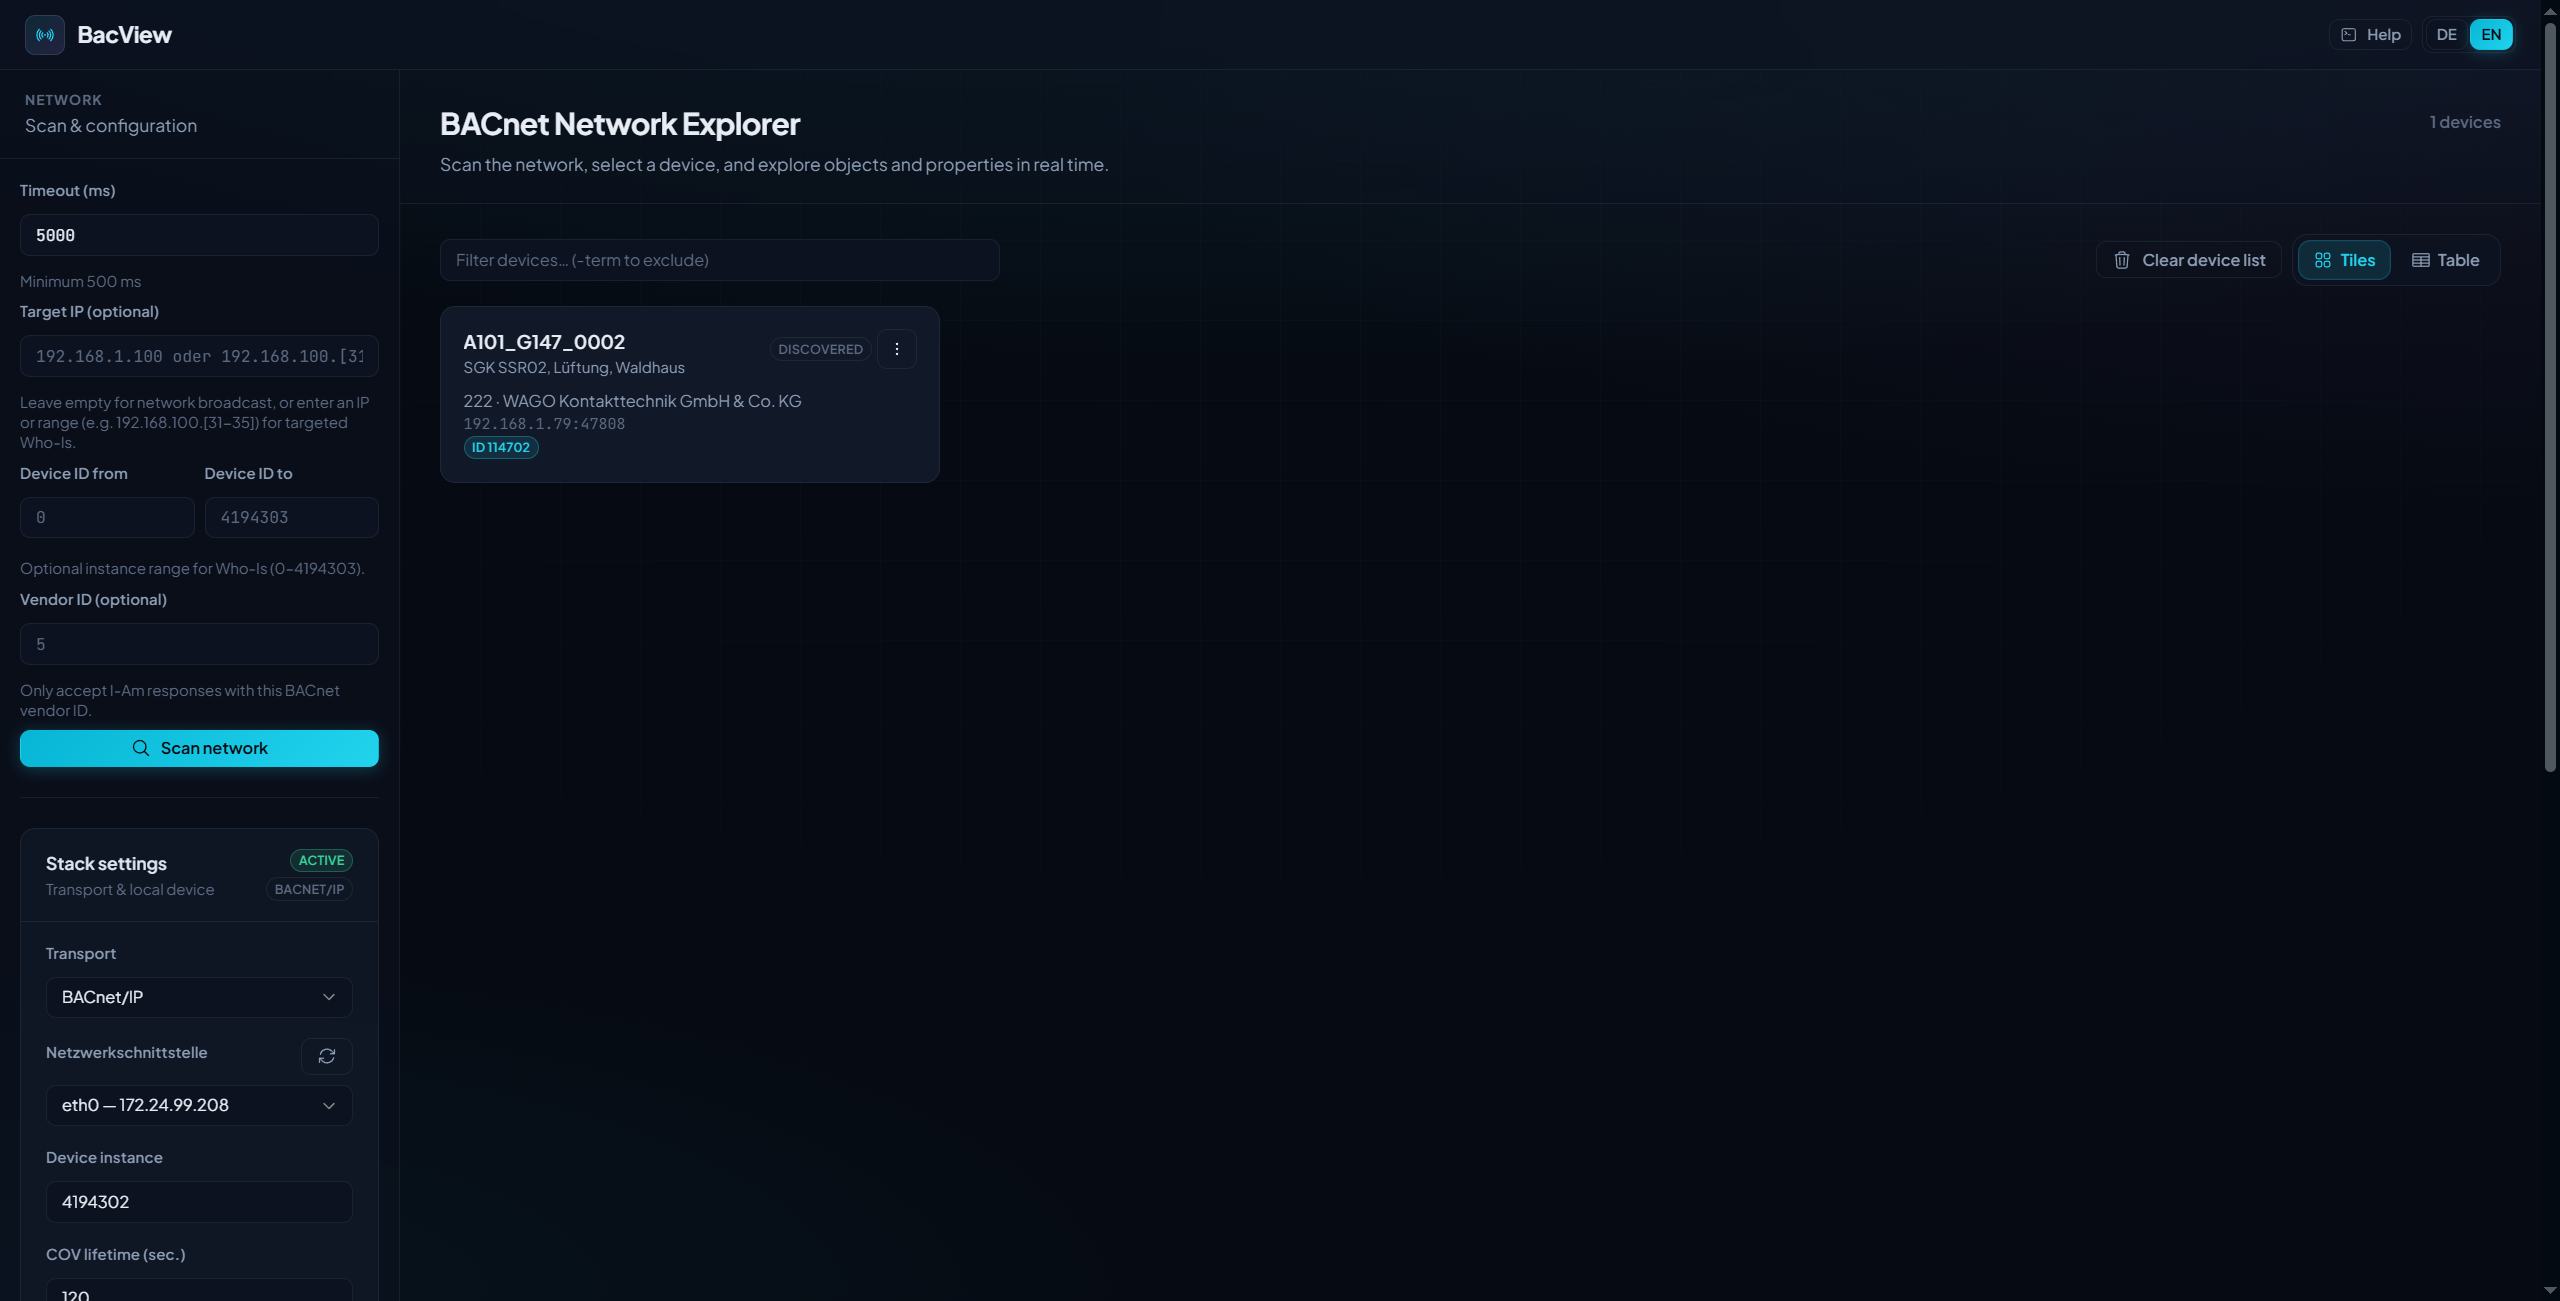
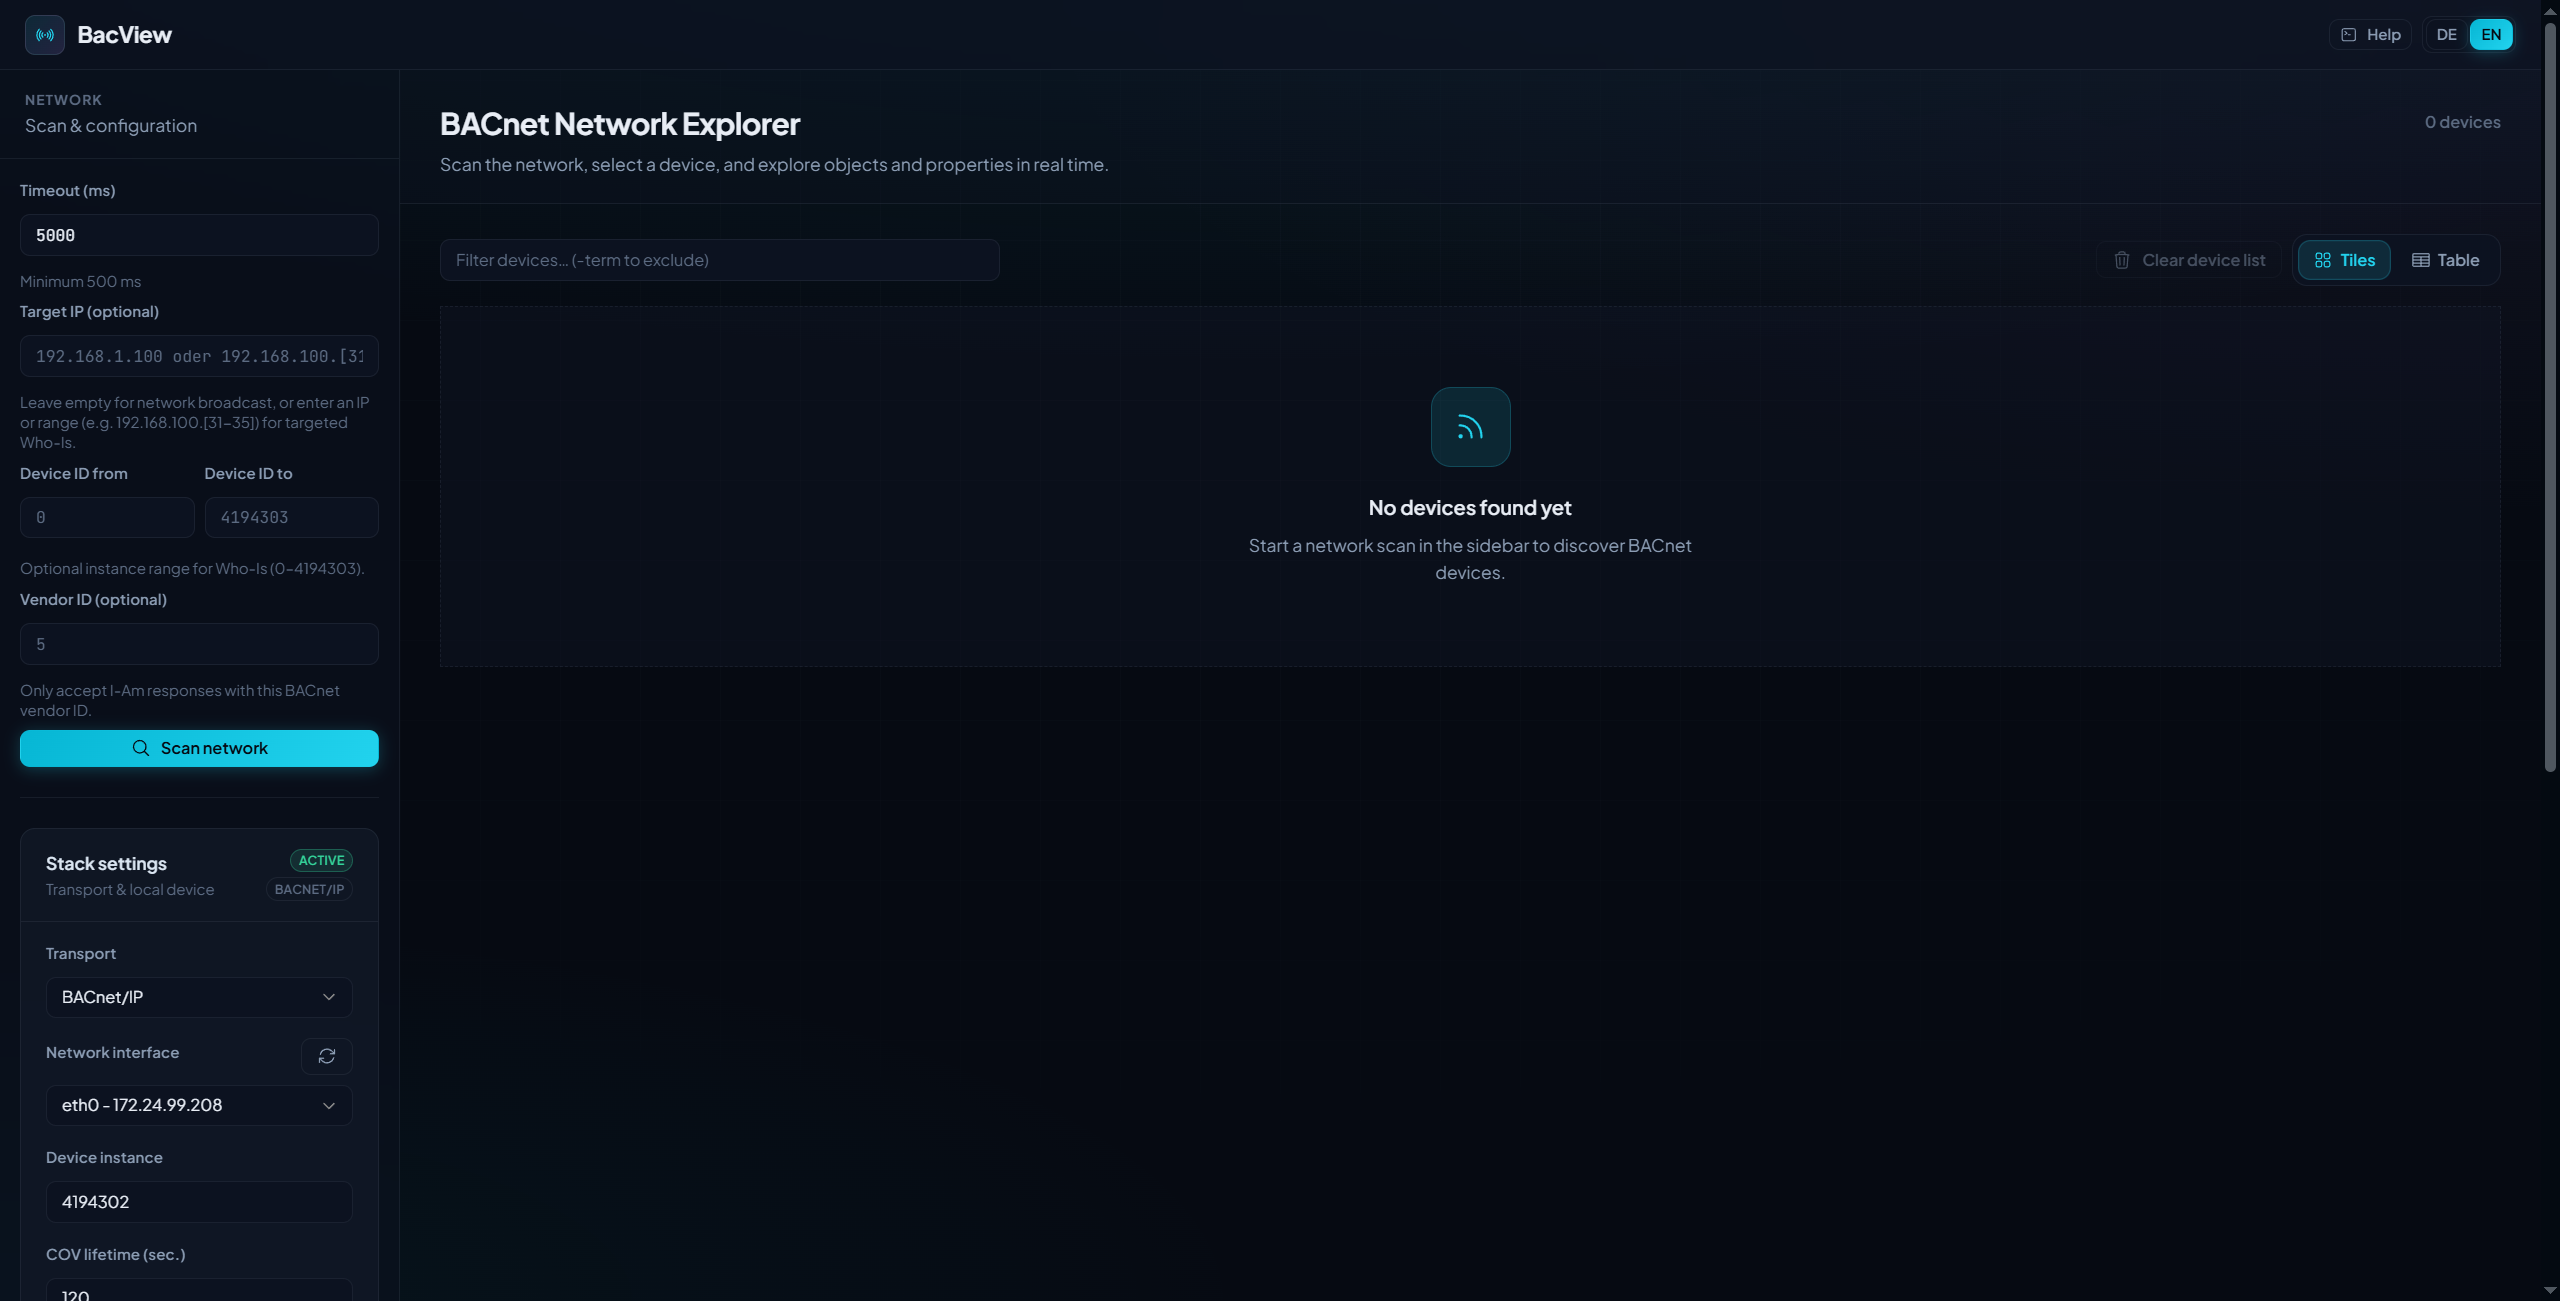
Sync to GitHub

diff --git a/priv/gettext/build_en_translations.py b/priv/gettext/build_en_translations.py
@@ -10,6 +10,7 @@ ROOT = Path(__file__).resolve().parents[2]
 
 TRANSLATIONS: dict[str, str] = {
     "%{class}: %{code}": "%{class}: %{code}",
+    "%{count} %{label}": "%{count} %{label}",
     "%{count} COV aktiv": "%{count} active COV",
     "%{count} Datensätze": "%{count} records",
     "%{count} Eigenschaften": "%{count} properties",
@@ -33,6 +34,7 @@ TRANSLATIONS: dict[str, str] = {
     "%{sec}s": "%{sec}s",
     "%{shown} von %{total} Geräten": "%{shown} of %{total} devices",
     "%{size} Bytes": "%{size} bytes",
+    "-": "-",
     "0 Geräte": "0 devices",
     "Abbrechen": "Cancel",
     "Autor": "Author",
@@ -55,12 +57,14 @@ TRANSLATIONS: dict[str, str] = {
     "Als Hex": "As hex",
     "Als Text": "As text",
     "Aktiv": "Active",
+    "aktiv": "active",
     "Offline": "Offline",
     "Aktive Alarme": "Active alarms",
     "Aktive COV-Abonnements": "Active COV subscriptions",
     "Aktive Priorität": "Active priority",
     "Aktiv seit": "Active since",
     "Auto": "Auto",
+    "Ausser Betrieb": "Out of service",
     "Aktualisieren": "Refresh",
     "Aktualisiert": "Updated",
     "Aktuellen Ordner durchsuchen…": "Search current folder…",
@@ -129,6 +133,14 @@ TRANSLATIONS: dict[str, str] = {
     "Aus empfangenen COV-Meldungen": "From received COV notifications",
     "Keine plottbaren COV-Meldungen im gewählten Zeitraum.": "No plottable COV notifications in the selected time range.",
     "Keine plottbaren Datensätze im gewählten Zeitraum.": "No plottable records in the selected time range.",
+    "In Alarm": "In alarm",
+    "Inaktiv": "Inactive",
+    "inaktiv": "inactive",
+    "Initialisiere": "Initializing",
+    "In Alarm": "In alarm",
+    "Inaktiv": "Inactive",
+    "inaktiv": "inactive",
+    "Initialisiere": "Initializing",
     "Inkrement": "Increment",
     "Lifetime (Sek.)": "Lifetime (sec.)",
     "Leer = Objektstandard": "Empty = object default",
@@ -397,7 +409,6 @@ TRANSLATIONS: dict[str, str] = {
     "Present Value erfolgreich geschrieben.": "Present value written successfully.",
     "Present Value ist schreibgeschützt.": "Present value is read-only.",
     "Present Value schreiben": "Write present value",
-    "Present_Value": "Present_Value",
     "Priorität": "Priority",
     "Priorität %{priority} zurückgesetzt (null).": "Priority %{priority} reset (null).",
     "Priorität zurücksetzen fehlgeschlagen.": "Failed to reset priority.",
@@ -408,6 +419,7 @@ TRANSLATIONS: dict[str, str] = {
     "Quittierung": "Acknowledgement",
     "Quittierung erforderlich": "Acknowledgement required",
     "Registrieren": "Register",
+    "Registriert": "Registered",
     "Registrieren Sie BacView als Foreign Device bei einem BBMD. Who-Is wird dann per Distribute-Broadcast-To-Network gesendet.": "Register BacView as a Foreign Device with a BBMD. Who-Is is then sent via Distribute-Broadcast-To-Network.",
     "Remote-Netzwerk-Zugang": "Remote network access",
     "Ressourcenfehler": "Resource error",
@@ -427,6 +439,10 @@ TRANSLATIONS: dict[str, str] = {
     "Schreiben": "Write",
     "Schreiben OK, aber Rücklesen fehlgeschlagen: %{detail}": "Write OK, but read-back failed: %{detail}",
     "Schreiben fehlgeschlagen: %{detail}": "Write failed: %{detail}",
+    "Geschriebener Wert weicht vom gelesenen Present Value ab: %{value}":
+        "Written value differs from the read present value: %{value}",
+    "Geschriebener Wert weicht vom gelesenen Wert ab: %{value}":
+        "Written value differs from the read value: %{value}",
     "Schreibgeschützt": "Read-only",
     "Stream-Zugriff": "Stream access",
     "Schreibzugriff verweigert.": "Write access denied.",
@@ -505,6 +521,7 @@ TRANSLATIONS: dict[str, str] = {
     "Verbleibend": "Remaining",
     "Von": "From",
     "Warte auf BACnet-Antwort…": "Waiting for BACnet response…",
+    "Warte auf BBMD": "Waiting for BBMD",
     "Verbindung zum Server nicht möglich": "Unable to connect to server",
     "Wertvalidierung überspringen": "Skip value validation",
     "Wert": "Value",
@@ -512,6 +529,8 @@ TRANSLATIONS: dict[str, str] = {
     "Wird geladen…": "Loading…",
     "Wird nachgelesen…": "Re-reading…",
     "Wochenplan bearbeiten": "Edit weekly schedule",
+    "Wochenplan-Einträge erlauben nur primitive BACnet-Werte (z. B. REAL, BOOLEAN, ENUMERATED).":
+        "Weekly schedule entries only allow primitive BACnet values (e.g. REAL, BOOLEAN, ENUMERATED).",
     "Wochentage": "Weekdays",
     "Wurzel": "Root",
     "Wählen Sie ein Objekt aus der Liste.": "Select an object from the list.",
@@ -562,23 +581,42 @@ TRANSLATIONS: dict[str, str] = {
     "Eintrag in die Empfängerliste fehlgeschlagen.": "Failed to enroll in recipient list.",
     "Ungültiger Zeitraum. Bitte Start- und Endzeit prüfen.": "Invalid time range. Please check start and end time.",
     "Here is the string to translate": "Here is the string to translate",
+    "Übersteuert": "Overridden",
 }
+
+
+# Call-site patterns for German msgids used as Gettext keys.
+# Covers t/gt/gettext/translate! with any second-arg name (locale_version, lv, v, …)
+# and multi-line forms. Intentionally does NOT match dgettext("errors", …).
+_MSGID_PATTERNS: list[re.Pattern[str]] = [
+    # t(locale_or_@locale, ANY, "msgid")  including multi-line after comma
+    re.compile(
+        r"\bt\(\s*(?:@)?locale\s*,\s*[^,\n]+,\s*\n?\s*\"((?:\\.|[^\"\\])*)\"",
+        re.M,
+    ),
+    # BacViewWeb.GettextLC.t(locale, v, "msgid")
+    re.compile(
+        r"GettextLC\.t\(\s*[^,\n]+,\s*[^,\n]+,\s*\n?\s*\"((?:\\.|[^\"\\])*)\"",
+        re.M,
+    ),
+    # gt("msgid") / gt(\n "msgid")
+    re.compile(r"\bgt\(\s*\n?\s*\"((?:\\.|[^\"\\])*)\"", re.M),
+    # gettext("msgid") / gettext(\n "msgid")  — word boundary excludes dgettext
+    re.compile(r"\bgettext\(\s*\n?\s*\"((?:\\.|[^\"\\])*)\"", re.M),
+    # translate!("msgid")
+    re.compile(r"\btranslate!\(\s*\n?\s*\"((?:\\.|[^\"\\])*)\"", re.M),
+]
 
 
 def collect_msgids() -> list[str]:
     msgids: set[str] = set()
 
     for path in (ROOT / "lib").rglob("*.ex"):
-        text = path.read_text()
-        msgids.update(re.findall(r't\(@locale, @locale_version,\s*"([^"]+)"', text))
-        msgids.update(re.findall(r't\(locale, locale_version,\s*"([^"]+)"', text))
-        msgids.update(re.findall(r't\(@locale, @locale_version,\s*\n\s*"([^"]+)"', text))
-        msgids.update(re.findall(r't\(\s*@locale,\s*@locale_version,\s*\n\s*"([^"]+)"', text))
-        msgids.update(re.findall(r't\(\s*locale,\s*locale_version,\s*\n\s*"([^"]+)"', text))
-        msgids.update(re.findall(r'gt\("([^"]+)"(?:,|\))', text))
-        msgids.update(re.findall(r'\bgettext\("([^"]+)"(?:,|\))', text))
+        text = path.read_text(encoding="utf-8")
+        for pattern in _MSGID_PATTERNS:
+            msgids.update(pattern.findall(text))
 
-    pot = (ROOT / "priv/gettext/default.pot").read_text()
+    pot = (ROOT / "priv/gettext/default.pot").read_text(encoding="utf-8")
     msgids.update(re.findall(r'^msgid "([^"]+)"', pot, re.M))
     msgids.discard("")
     return sorted(msgids)